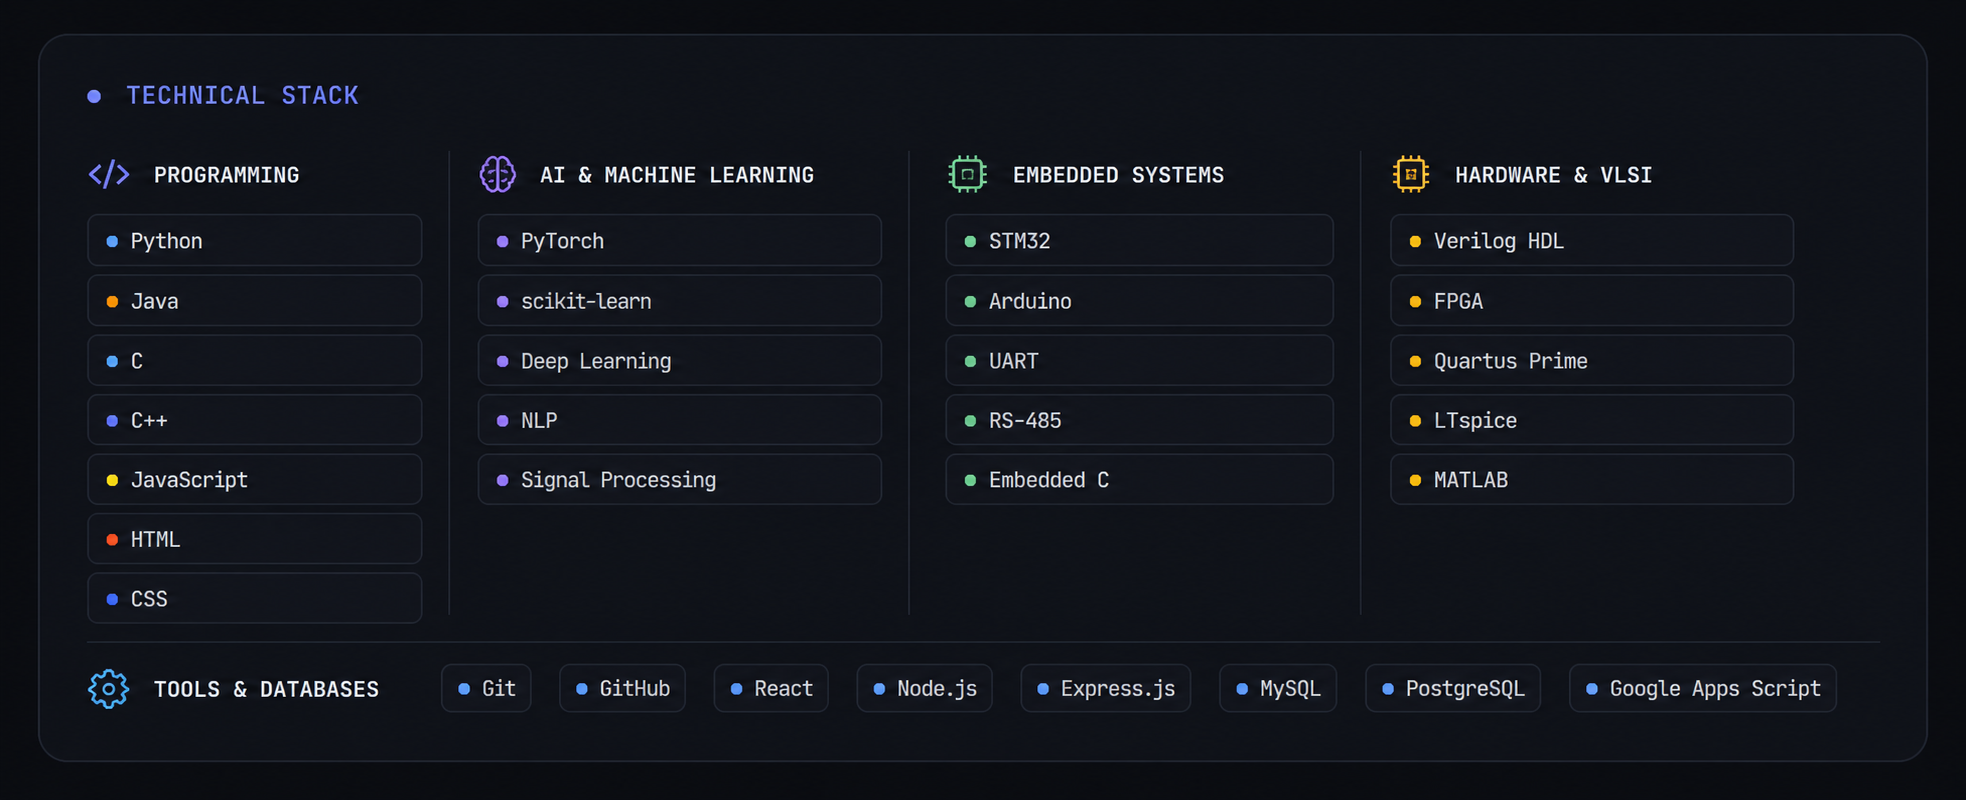
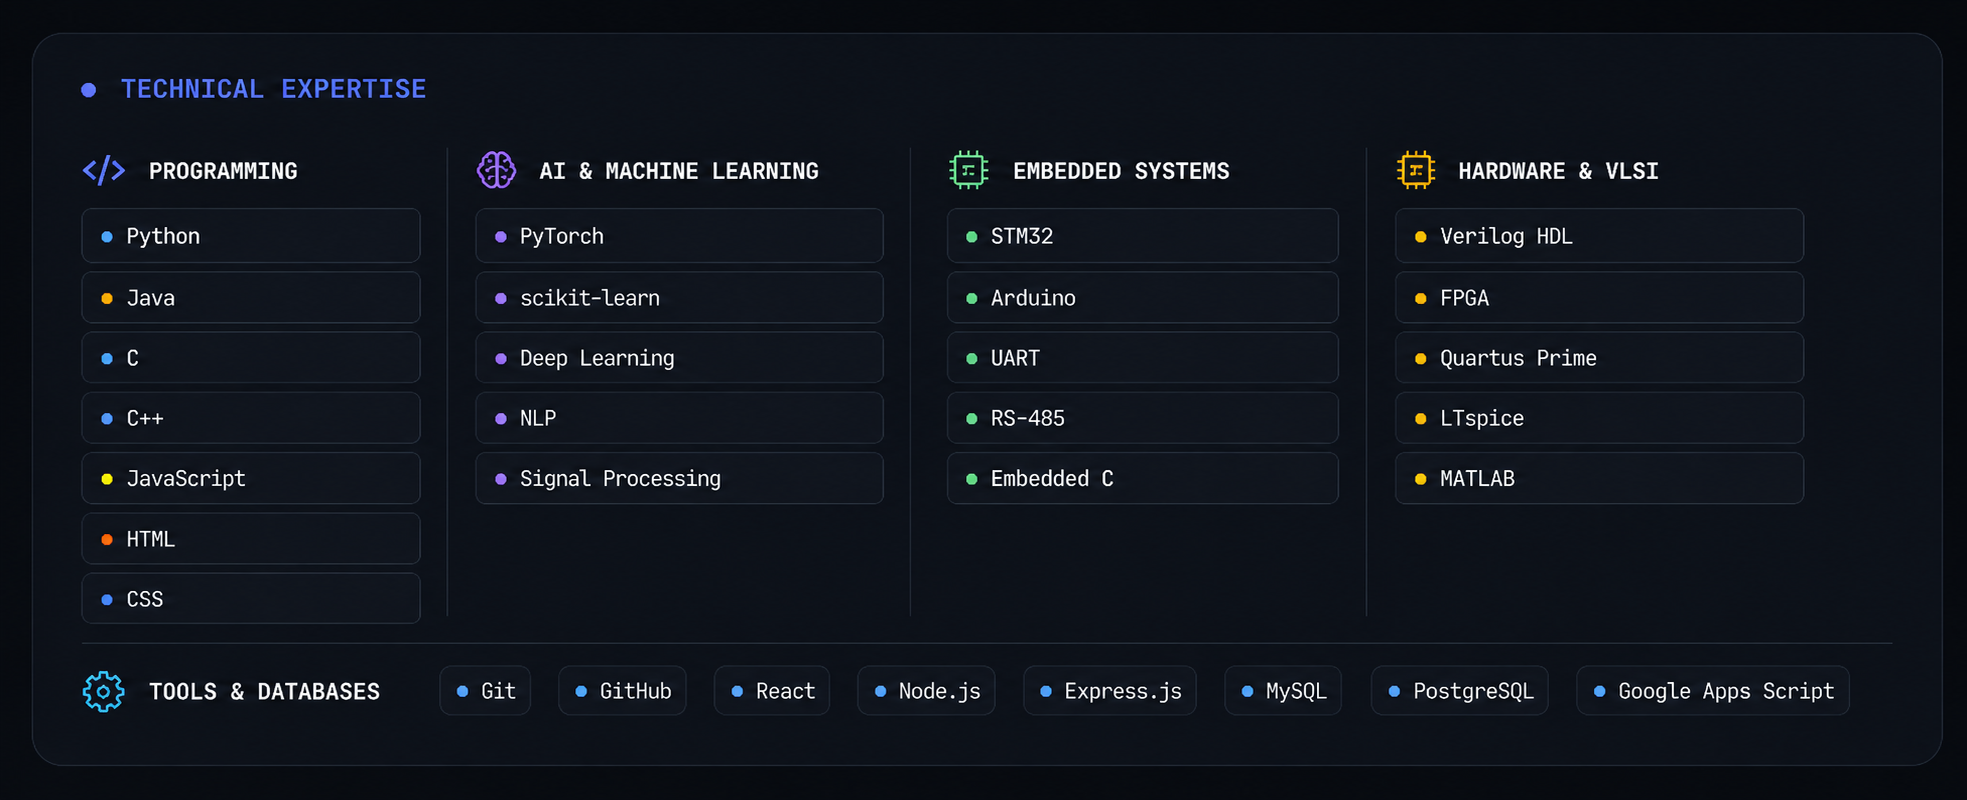
technical-stack.png image replaced to TECHNICAL EXPERTISE as its heading

diff --git a/components/sections/github.tsx b/components/sections/github.tsx
@@ -56,8 +56,8 @@ export function GitHubSection() {
     <Section
       id="github"
       eyebrow="github"
-      title="Open source & activity"
-      intro="Explore my pinned repositories, GitHub activity, and a snapshot of the technologies and tools I work with."
+      title="Open Source & Activity"
+      intro="Explore my featured open-source projects, GitHub activity, and the technologies I use across software engineering, AI/ML, embedded systems, and VLSI."
     >
       <div className="grid gap-6 lg:grid-cols-2">
         <Reveal>